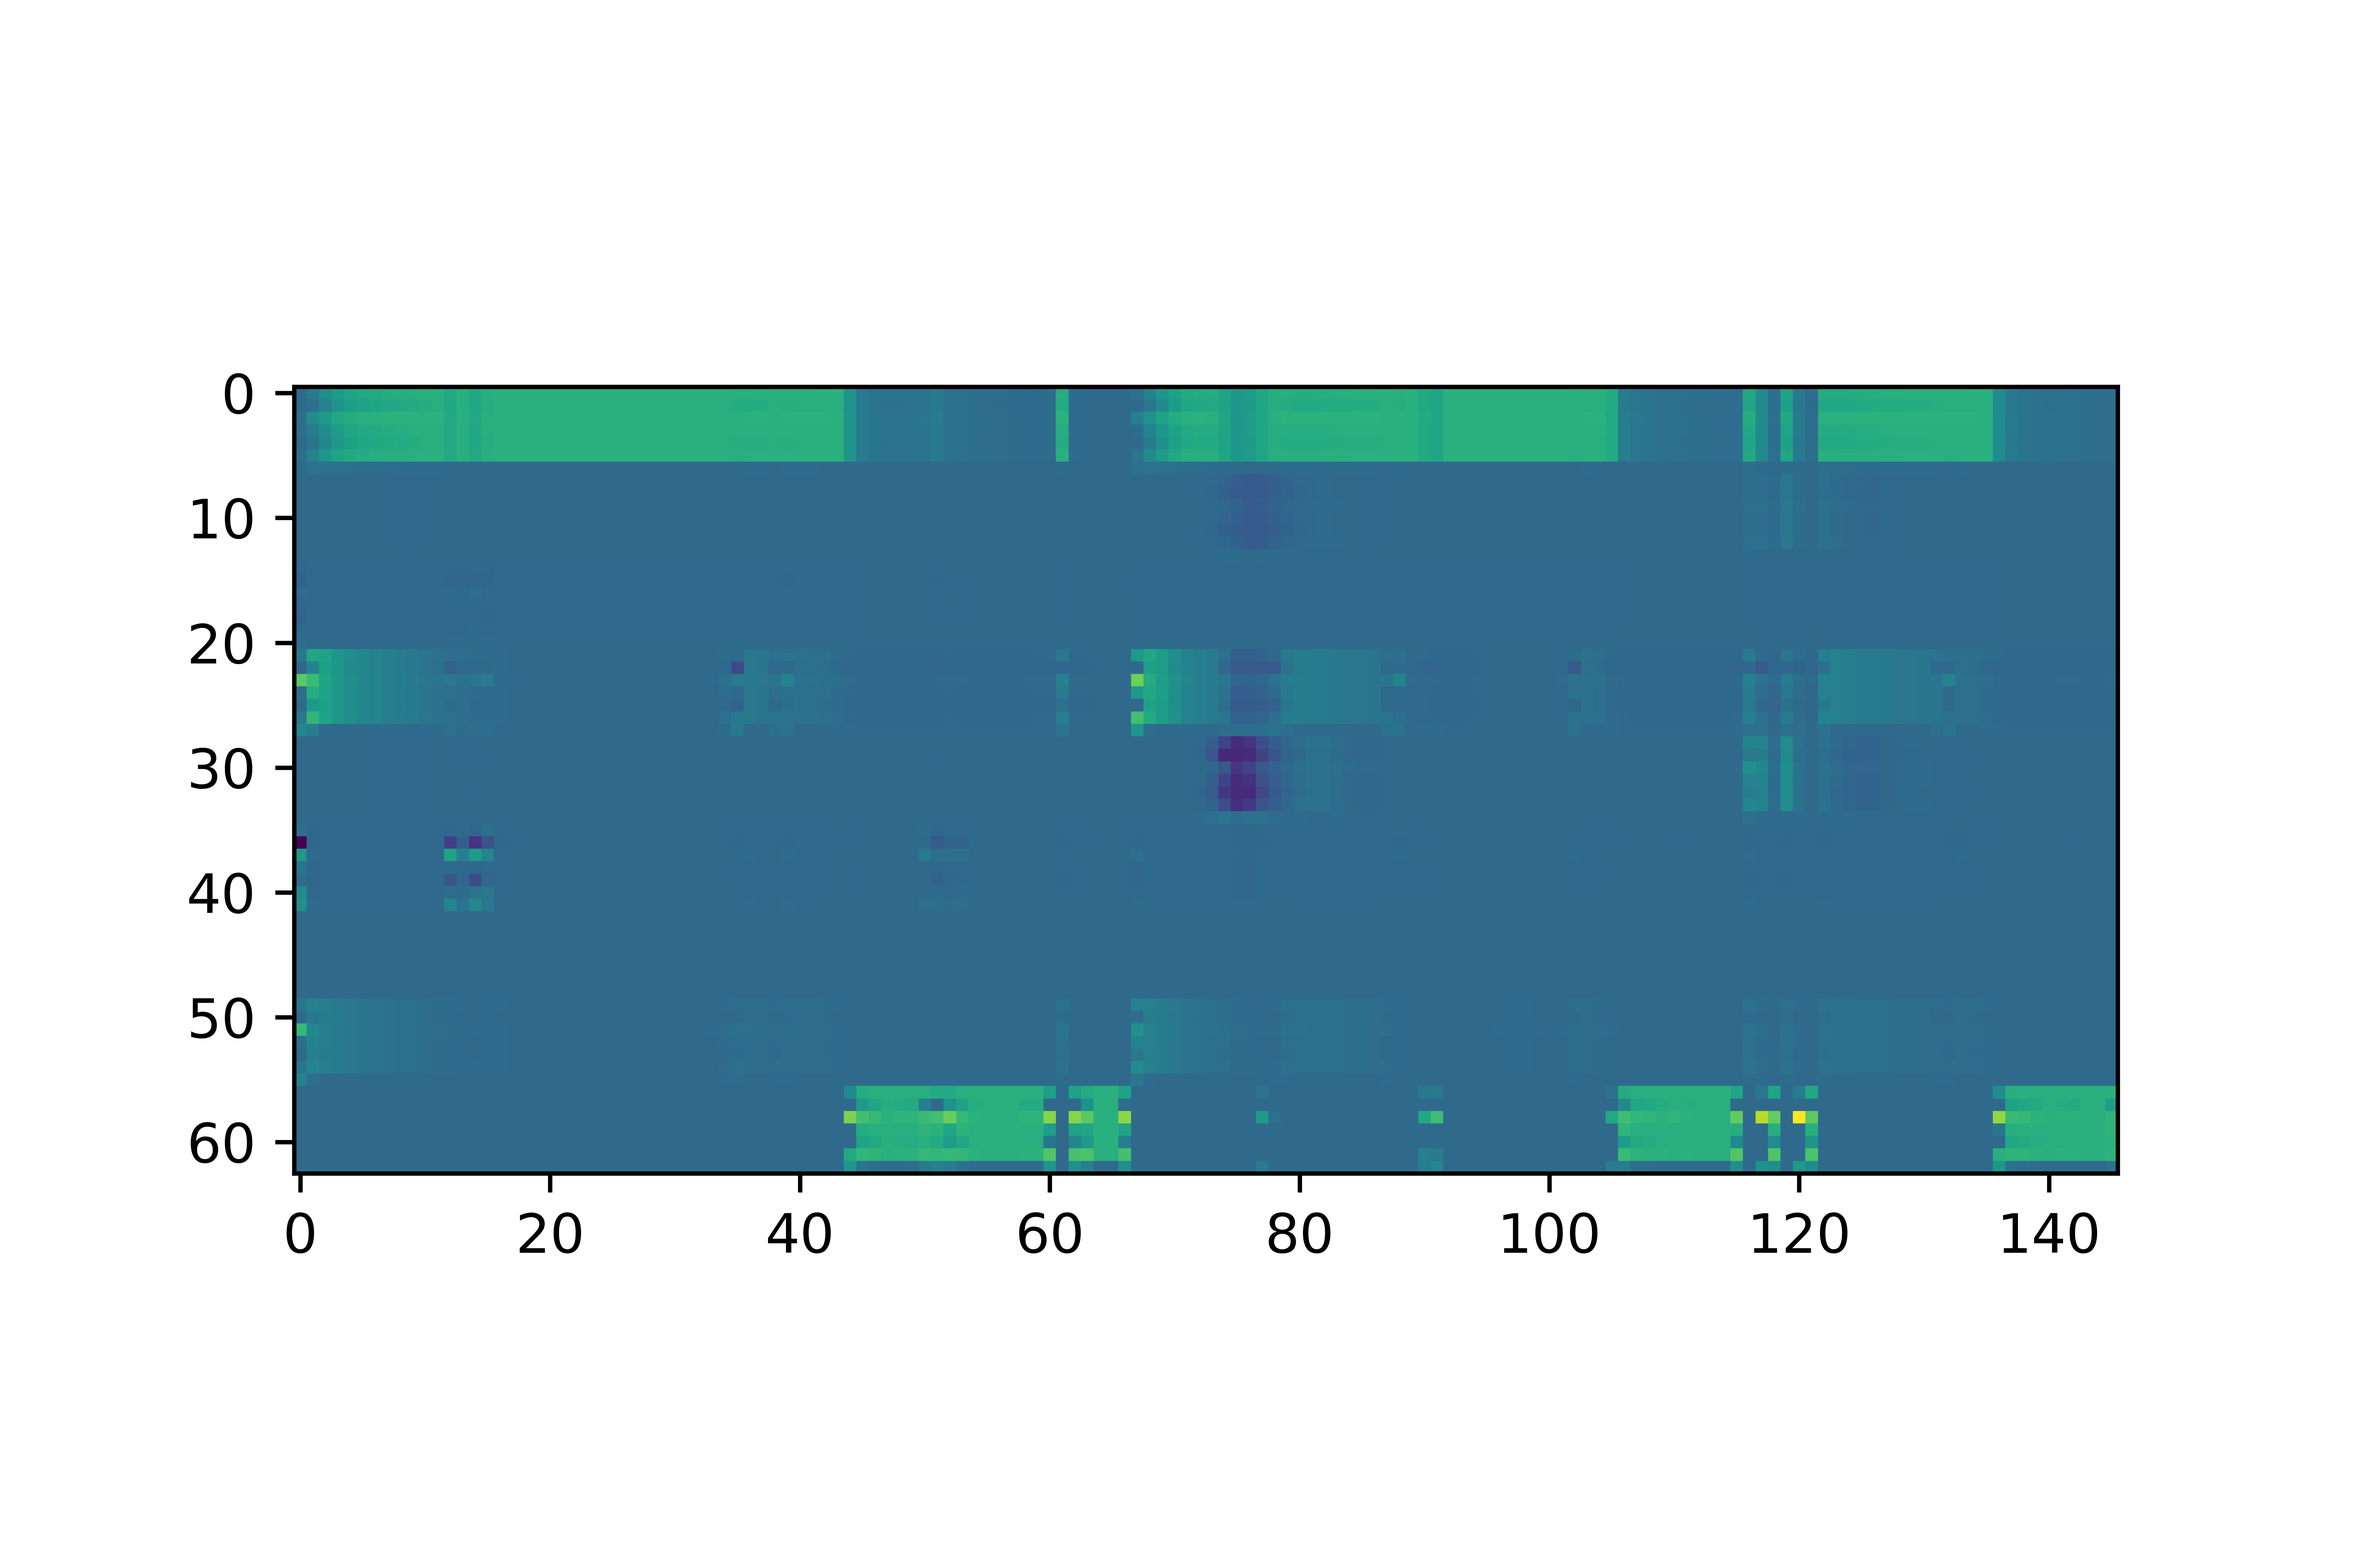
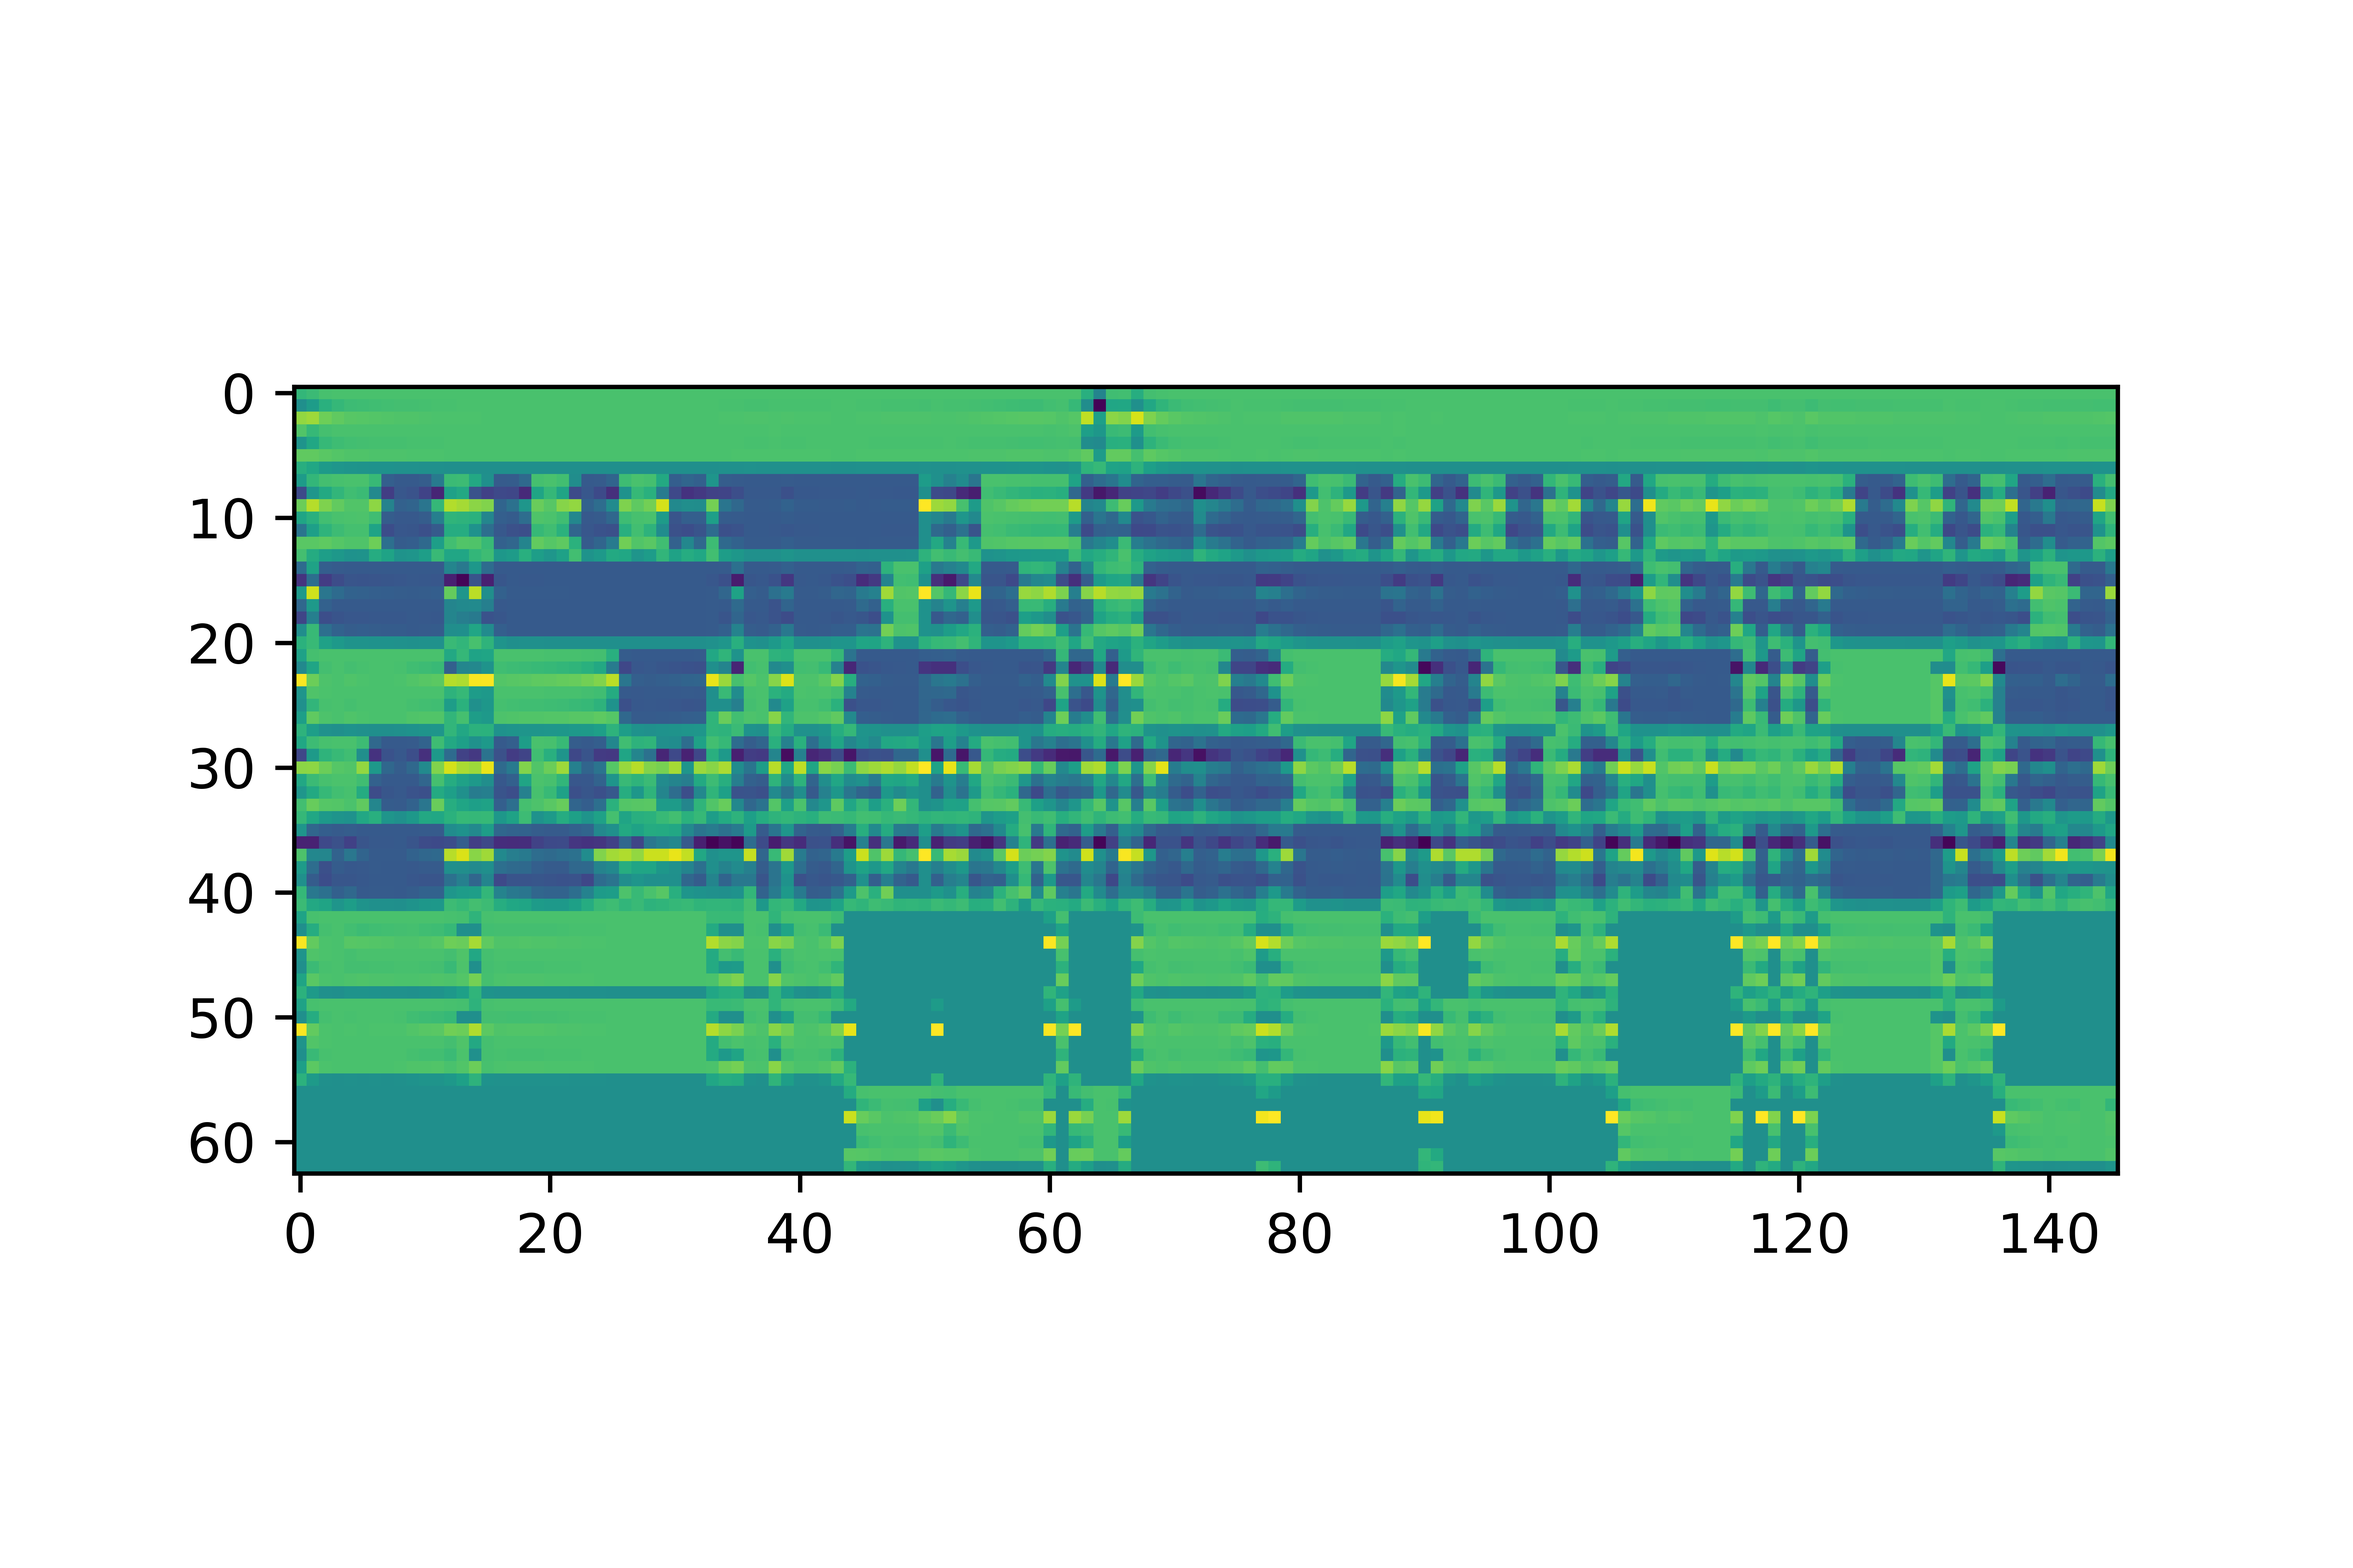
write processus retrieval

Changed region(s): [[0.125, 0.25, 0.9062, 0.75]]

diff --git a/bin/simulator.py b/bin/simulator.py
@@ -1,0 +1,48 @@
+from multiprocessing import Process,Lock, Condition, Value,SimpleQueue
+from multiprocessing.dummy import Array
+import time
+import pandas as pd
+import numpy as np
+
+
+df = pd.read_csv("data/simulation.csv", delim_whitespace=True, index_col='time')
+nump = df[['[00].VehicleUpdate-speed.001', '[00].VehicleUpdate-speed.002',
+       '[00].VehicleUpdate-speed.003', '[00].VehicleUpdate-accel.001', '[00].VehicleUpdate-accel.002',
+       '[00].VehicleUpdate-accel.003', '[00].VehicleUpdate-consumption', '[00].VehicleUpdate-accelerator',
+       '[00].VehicleUpdate-brake']].fillna(value=0).to_numpy().T
+
+class process:
+    def __init__(self):
+        self.lock = Lock()
+        self.data = np.array([[0]]*9)
+        self.attLecture = Condition(self.lock)
+        self.q = SimpleQueue()
+        self.nb_att = Value('i', lock=False)
+
+
+    def recup(self):
+        for i in range(nump.shape[1]):
+            with self.lock:
+                self.q.put(np.resize(nump[:,i], (nump.shape[0], 1)))
+                self.nb_att.value += 1
+                print("recup" + str(i))
+                self.attLecture.notify()
+            time.sleep(1)
+            
+    
+    def lect(self):
+        
+        for i in range(nump.shape[1]):
+            with self.lock:
+                while(self.nb_att.value == 0):
+                    self.attLecture.wait()
+                self.data = np.append(self.data, self.q.get(), axis = 1)
+                self.nb_att.value -= 1
+                print(self.data[:,:])
+
+if __name__ == '__main__':
+    p = process()
+    simu = Process(target=p.recup)
+    simu.start()
+    lect = Process(target=p.lect)
+    lect.start()
